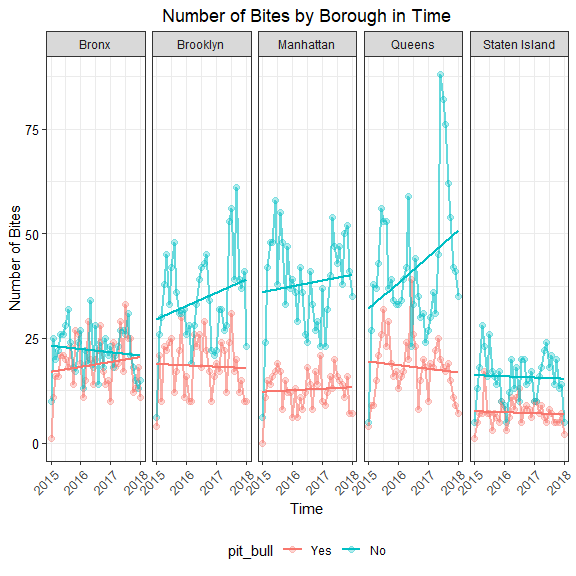
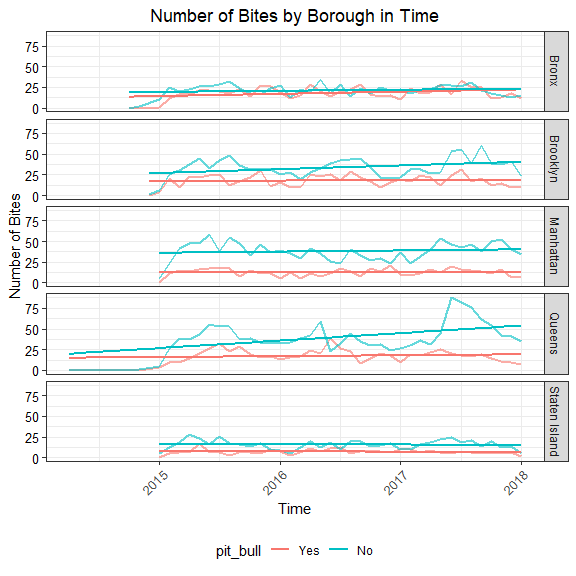
Updating dog bit viz before website build/folder movement - Q

Changed region(s): [[0.0, 0.0, 1.0, 0.9062], [0.375, 0.9375, 0.6875, 0.9688]]

diff --git a/Q_work/Q_dog_bite_viz_12_3.md b/Q_work/Q_dog_bite_viz_12_3.md
@@ -144,7 +144,7 @@ time.boro.df <- dog_bite %>%
 time.boro.plot <- time.boro.df %>%
   filter(borough != "Other") %>%
   ggplot(aes(x = date_numeric, y = num_bites, colour = pit_bull)) + 
-  geom_point(alpha = 0.3, size = 2) + 
+ # geom_point(alpha = 0.3, size = 2) + 
   geom_line(size = 1, alpha = 0.6) + 
   geom_smooth(aes(colour = pit_bull), alpha = 0.3, se = F, method = "lm") + 
   theme(legend.position = "bottom",
@@ -157,8 +157,8 @@ time.boro.plot <- time.boro.df %>%
     y = "Number of Bites",
     title = "Number of Bites by Borough in Time"
   ) + 
-  xlim(c(2015, 2018)) +
-  facet_grid(~borough)
+#  xlim(c(2015, 2018)) +
+  facet_grid(borough~.)
 
 
 time.overall.plot
@@ -169,10 +169,6 @@ time.overall.plot
 ``` r
 time.boro.plot
 ```
-
-    ## Warning: Removed 10 rows containing non-finite values (stat_smooth).
-
-    ## Warning: Removed 10 rows containing missing values (geom_point).
 
 <img src="Q_dog_bite_viz_12_3_files/figure-markdown_github/unnamed-chunk-4-2.png" width="90%" style="display: block; margin: auto;" />
 
@@ -321,5 +317,58 @@ summary(logit.2)
     ##     Null deviance: 10990  on 8706  degrees of freedom
     ## Residual deviance: 10776  on 8700  degrees of freedom
     ## AIC: 10790
+    ## 
+    ## Number of Fisher Scoring iterations: 4
+
+``` r
+ #Check Effect Modifier
+ logit.full.3 <- glm(pit_bull ~ date_numeric + borough + borough:date_numeric, family = "binomial", data = logit.df)
+ summary(logit.full.3)
+```
+
+    ## 
+    ## Call:
+    ## glm(formula = pit_bull ~ date_numeric + borough + borough:date_numeric, 
+    ##     family = "binomial", data = logit.df)
+    ## 
+    ## Deviance Residuals: 
+    ##     Min       1Q   Median       3Q      Max  
+    ## -1.1795  -0.8928  -0.7615   1.3078   1.9609  
+    ## 
+    ## Coefficients:
+    ##                                   Estimate Std. Error z value   Pr(>|z|)
+    ## (Intercept)                       -0.33217    0.10689  -3.108    0.00189
+    ## date_numeric                       0.10995    0.06037   1.821    0.06854
+    ## boroughBrooklyn                   -0.11817    0.14439  -0.818    0.41311
+    ## boroughManhattan                  -0.75310    0.15117  -4.982 0.00000063
+    ## boroughOther                      -0.81854    0.28793  -2.843    0.00447
+    ## boroughQueens                     -0.17083    0.14255  -1.198    0.23075
+    ## boroughStaten Island              -0.42830    0.18340  -2.335    0.01952
+    ## date_numeric:boroughBrooklyn      -0.22355    0.08129  -2.750    0.00596
+    ## date_numeric:boroughManhattan     -0.11758    0.08464  -1.389    0.16476
+    ## date_numeric:boroughOther         -0.31551    0.16920  -1.865    0.06222
+    ## date_numeric:boroughQueens        -0.31555    0.08040  -3.925 0.00008675
+    ## date_numeric:boroughStaten Island -0.12865    0.10458  -1.230    0.21865
+    ##                                      
+    ## (Intercept)                       ** 
+    ## date_numeric                      .  
+    ## boroughBrooklyn                      
+    ## boroughManhattan                  ***
+    ## boroughOther                      ** 
+    ## boroughQueens                        
+    ## boroughStaten Island              *  
+    ## date_numeric:boroughBrooklyn      ** 
+    ## date_numeric:boroughManhattan        
+    ## date_numeric:boroughOther         .  
+    ## date_numeric:boroughQueens        ***
+    ## date_numeric:boroughStaten Island    
+    ## ---
+    ## Signif. codes:  0 '***' 0.001 '**' 0.01 '*' 0.05 '.' 0.1 ' ' 1
+    ## 
+    ## (Dispersion parameter for binomial family taken to be 1)
+    ## 
+    ##     Null deviance: 10990  on 8706  degrees of freedom
+    ## Residual deviance: 10758  on 8695  degrees of freedom
+    ## AIC: 10782
     ## 
     ## Number of Fisher Scoring iterations: 4
